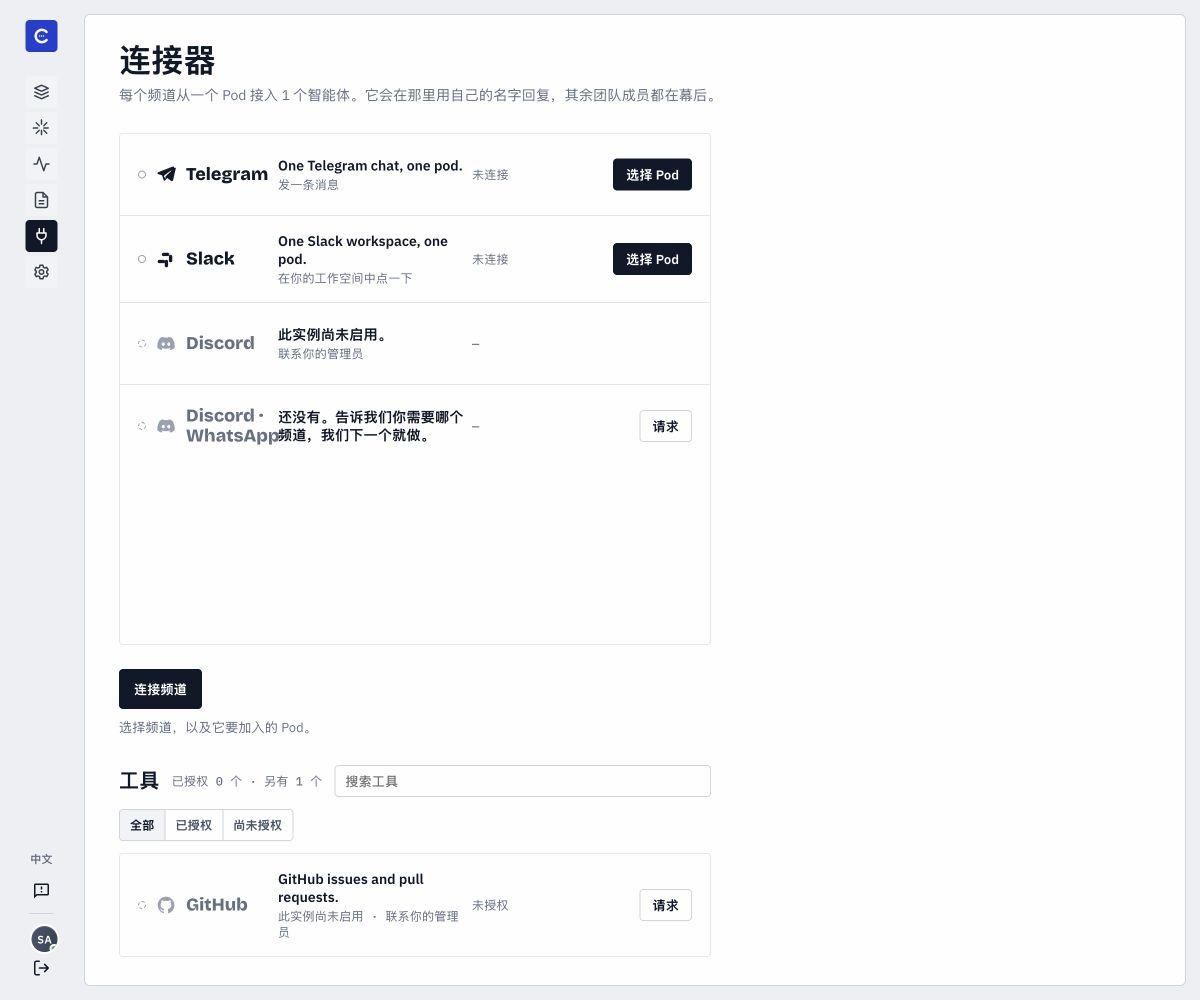
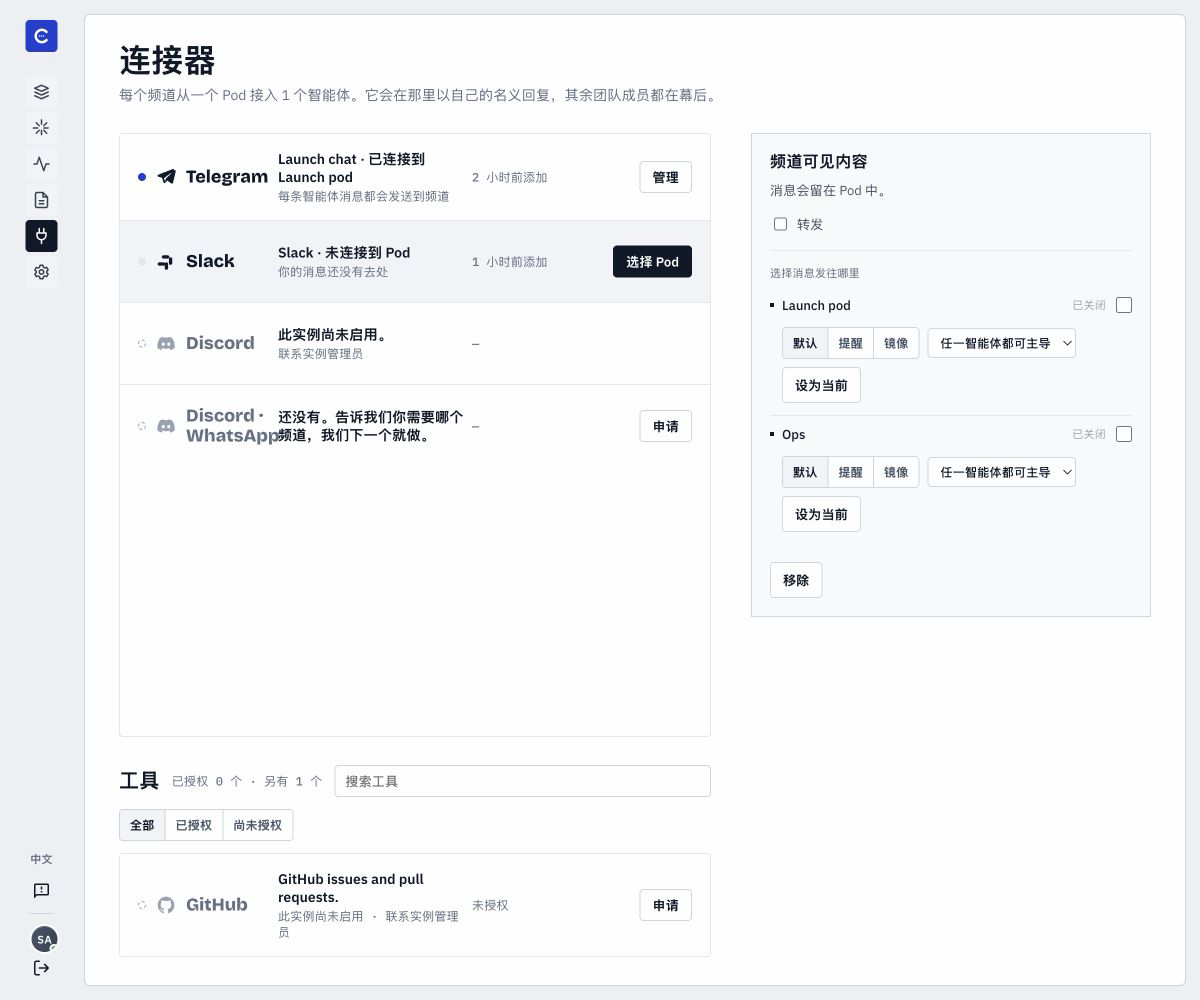
feat(i18n): complete zh-CN connector chrome localization

diff --git a/frontend/src/v2/components/V2ConnectorsPage.tsx b/frontend/src/v2/components/V2ConnectorsPage.tsx
@@ -7,6 +7,7 @@
 import React, { useCallback, useEffect, useRef, useState } from 'react';
 import { useNavigate } from 'react-router-dom';
 import { useTranslation } from 'react-i18next';
+import type { TFunction } from 'i18next';
 import { useV2Api } from '../hooks/useV2Api';
 import { V2Pod, V2PodMember } from '../hooks/useV2Pods';
 import { PlatformGlyph } from '../icons/platforms';
@@ -178,6 +179,19 @@ const relativeTime = (date?: string): string => {
   return `${Math.floor(hours / 24)}d ago`;
 };
 
+const localizeRelativeTime = (date: string | undefined, t: TFunction): string => {
+  const raw = relativeTime(date);
+  if (raw === 'just now') return t('connectors.time.justNow', { defaultValue: 'just now' });
+  const match = raw.match(/^(\d+)([mhd]) ago$/);
+  if (!match) return raw;
+  const [, countText, unit] = match;
+  const key = unit === 'm' ? 'minutesAgo' : unit === 'h' ? 'hoursAgo' : 'daysAgo';
+  return t(`connectors.time.${key}`, {
+    count: Number(countText),
+    defaultValue: `${countText}${unit} ago`,
+  });
+};
+
 const claimIsStale = (installation: CatalogInstallation): boolean => {
   const claimedAt = installation.claimedAt ? new Date(installation.claimedAt).getTime() : NaN;
   if (!Number.isFinite(claimedAt)) return true;
@@ -308,15 +322,15 @@ const V2ConnectorsPage: React.FC = () => {
 
   const podNameById = (podId: string | null | undefined, fallback?: Connector | null): string => {
     const pod = podList.find((candidate) => String(candidate._id) === String(podId || ''));
-    if (pod) return pod.name || 'Untitled pod';
+    if (pod) return pod.name || t('connectors.untitledPod', { defaultValue: 'Untitled pod' });
     if (fallback && typeof fallback.podId === 'object' && fallback.podId?.name) return fallback.podId.name;
-    return 'Untitled pod';
+    return t('connectors.untitledPod', { defaultValue: 'Untitled pod' });
   };
 
   const boundPodName = (boundPodId: string | undefined): string => {
     const existing = connectors.find((connector) => connectorPodId(connector) === String(boundPodId));
     const boundPod = podList.find((pod) => String(pod._id) === String(boundPodId));
-    return existing ? podNameById(connectorPodId(existing), existing) : (boundPod?.name || 'another pod');
+    return existing ? podNameById(connectorPodId(existing), existing) : (boundPod?.name || t('connectors.anotherPod', { defaultValue: 'another pod' }));
   };
 
   const installInProgressMessage = (boundPodId?: string): string => (
@@ -563,7 +577,10 @@ const V2ConnectorsPage: React.FC = () => {
   };
 
   const rowFor = (connector: Connector): ConnectorRow => {
-    const started = `started ${relativeTime(connector.createdAt)}`;
+    const started = t('connectors.startedWhen', {
+      defaultValue: 'started {{rel}}',
+      rel: localizeRelativeTime(connector.createdAt, t),
+    });
     const isTelegram = connector.type === 'telegram';
     const isSlack = connector.type === 'slack';
     const title = connector.config?.chatTitle || TYPE_LABELS[connector.type] || connector.type;
@@ -576,7 +593,10 @@ const V2ConnectorsPage: React.FC = () => {
         dot: 'empty',
         line: t('connectors.errorLine', { defaultValue: 'The connection dropped.' }),
         pulse: false,
-        when: `since ${relativeTime(connector.updatedAt || connector.createdAt)}`,
+        when: t('connectors.sinceWhen', {
+          defaultValue: 'since {{rel}}',
+          rel: localizeRelativeTime(connector.updatedAt || connector.createdAt, t),
+        }),
       };
     }
 
@@ -592,7 +612,10 @@ const V2ConnectorsPage: React.FC = () => {
           dot: 'idle',
           line: t('connectors.notLinkedLine', { defaultValue: '{{title}} · not linked to a pod', title }),
           pulse: false,
-          when: `added ${relativeTime(connector.createdAt)}`,
+          when: t('connectors.addedWhen', {
+            defaultValue: 'added {{rel}}',
+            rel: localizeRelativeTime(connector.createdAt, t),
+          }),
         };
       }
       const relay = Boolean(connector.config?.liveRelay);
@@ -607,10 +630,17 @@ const V2ConnectorsPage: React.FC = () => {
             : t('connectors.rowAttention', { defaultValue: 'attention · escalations reach the channel' }))
           : t('connectors.rowRelayOff', { defaultValue: 'relay off · messages stay in the pod' }),
         dot: relay ? 'live' : 'idle',
-        line: `${title} · linked to ${podNameById(activePodId, connector)}`,
+        line: t('connectors.linkedLine', {
+          defaultValue: '{{title}} · linked to {{pod}}',
+          title,
+          pod: podNameById(activePodId, connector),
+        }),
         pulse: relay && Boolean(recent),
         secondary: true,
-        when: `added ${relativeTime(connector.createdAt)}`,
+        when: t('connectors.addedWhen', {
+          defaultValue: 'added {{rel}}',
+          rel: localizeRelativeTime(connector.createdAt, t),
+        }),
       };
     }
 
@@ -644,8 +674,8 @@ const V2ConnectorsPage: React.FC = () => {
     }
 
     if (isSlack && connector.config?.pendingBind) {
-      const workspace = connector.config.pendingBind.teamName || 'This Slack workspace';
-      const user = connector.config.pendingBind.slackUserName ? `@${connector.config.pendingBind.slackUserName}` : 'your Slack user';
+      const workspace = connector.config.pendingBind.teamName || t('connectors.thisSlackWorkspace', { defaultValue: 'This Slack workspace' });
+      const user = connector.config.pendingBind.slackUserName ? `@${connector.config.pendingBind.slackUserName}` : t('connectors.yourSlackUser', { defaultValue: 'your Slack user' });
       return {
         action: 'confirm',
         actionLabel: t('connectors.slackConfirm', { defaultValue: 'Confirm' }),
@@ -653,7 +683,10 @@ const V2ConnectorsPage: React.FC = () => {
         dot: 'pending',
         line: t('connectors.slackConfirmRow', { defaultValue: '{{workspace}} says {{user}} connected — is that you?', workspace, user }),
         pulse: true,
-        when: `Slack answered ${relativeTime(connector.updatedAt || connector.createdAt)}`,
+        when: t('connectors.slackAnsweredWhen', {
+          defaultValue: 'Slack answered {{rel}}',
+          rel: localizeRelativeTime(connector.updatedAt || connector.createdAt, t),
+        }),
       };
     }
 
@@ -673,7 +706,10 @@ const V2ConnectorsPage: React.FC = () => {
       action: null,
       detail: t('connectors.pending', { defaultValue: 'Waiting for the channel' }),
       dot: 'empty',
-      line: `${TYPE_LABELS[connector.type] || connector.type} is waiting to connect.`,
+      line: t('connectors.waitingToConnect', {
+        defaultValue: '{{label}} is waiting to connect.',
+        label: TYPE_LABELS[connector.type] || connector.type,
+      }),
       pulse: false,
       when: started,
     };
@@ -712,8 +748,14 @@ const V2ConnectorsPage: React.FC = () => {
         when: t('connectors.notConnected', { defaultValue: 'not connected' }),
       };
     }
-    const since = `since ${relativeTime(installation.updatedAt)}`;
-    const started = `started ${relativeTime(installation.claimedAt || installation.updatedAt)}`;
+    const since = t('connectors.sinceWhen', {
+      defaultValue: 'since {{rel}}',
+      rel: localizeRelativeTime(installation.updatedAt, t),
+    });
+    const started = t('connectors.startedWhen', {
+      defaultValue: 'started {{rel}}',
+      rel: localizeRelativeTime(installation.claimedAt || installation.updatedAt, t),
+    });
     const stale = claimIsStale(installation);
     if (installation.status === 'installing' || installation.status === 'activating') {
       return stale
@@ -777,7 +819,10 @@ const V2ConnectorsPage: React.FC = () => {
         dot: 'empty',
         line: `${t('connectors.pausedLine', { defaultValue: 'Paused by an administrator.' })}${reason}`,
         pulse: false,
-        when: `paused ${relativeTime(pause?.at || installation.updatedAt)}`,
+        when: t('connectors.pausedWhen', {
+          defaultValue: 'paused {{rel}}',
+          rel: localizeRelativeTime(pause?.at || installation.updatedAt, t),
+        }),
       };
     }
     if (installation.status === 'stale') {
@@ -964,7 +1009,10 @@ const V2ConnectorsPage: React.FC = () => {
                   {active && <span className="v2-connector-gate__tag">{t('connectors.activeTag', { defaultValue: 'active' })}</span>}
                 </button>
                 <span className={`v2-connector-gate__since${enabled ? '' : ' v2-connector-gate__since--off'}`}>
-                  {enabled ? `since ${relativeTime(gate?.since)}` : t('connectors.gateOff', { defaultValue: 'off' })}
+                  {enabled ? t('connectors.sinceWhen', {
+                    defaultValue: 'since {{rel}}',
+                    rel: localizeRelativeTime(gate?.since, t),
+                  }) : t('connectors.gateOff', { defaultValue: 'off' })}
                 </span>
                 <input
                   type="checkbox"
@@ -1145,8 +1193,8 @@ const V2ConnectorsPage: React.FC = () => {
               <>
                 <p>{t('connectors.slackConfirmHint', {
                   defaultValue: '{{workspace}} wants to connect as {{user}}.',
-                  workspace: pendingBind.teamName || 'This Slack workspace',
-                  user: pendingBind.slackUserName ? `@${pendingBind.slackUserName}` : 'your Slack user',
+                  workspace: pendingBind.teamName || t('connectors.thisSlackWorkspace', { defaultValue: 'This Slack workspace' }),
+                  user: pendingBind.slackUserName ? `@${pendingBind.slackUserName}` : t('connectors.yourSlackUser', { defaultValue: 'your Slack user' }),
                 })}</p>
                 <div className="v2-connector-aside__actions">
                   <button type="button" className="v2-connector-aside__primary" disabled={busy} onClick={() => { void resolveSlackBind(connector, 'confirm'); }}>

diff --git a/frontend/src/v2/components/V2ConnectorTools.tsx b/frontend/src/v2/components/V2ConnectorTools.tsx
@@ -12,6 +12,7 @@
 
 import React, { useCallback, useEffect, useMemo, useState } from 'react';
 import { useTranslation } from 'react-i18next';
+import type { TFunction } from 'i18next';
 import { useV2Api } from '../hooks/useV2Api';
 import { useAuth } from '../../context/AuthContext';
 import { V2Pod } from '../hooks/useV2Pods';
@@ -115,6 +116,30 @@ export const relativeTime = (date?: string | null): string => {
   if (hours < 24) return `${hours}h ${suffix}`;
   const days = Math.round(hours / 24);
   return `${days}d ${suffix}`;
+};
+
+const localizeRelativeTime = (date: string | null | undefined, t: TFunction): string => {
+  const raw = relativeTime(date);
+  if (raw === '—') return raw;
+  if (raw === 'just now') return t('tools.time.justNow', { defaultValue: 'just now' });
+  if (raw === 'in a moment') return t('tools.time.inAMoment', { defaultValue: 'in a moment' });
+  const match = raw.match(/^(\d+)([mhd]) (ago|from now)$/);
+  if (!match) return raw;
+  const [, countText, unit, direction] = match;
+  const unitName = unit === 'm' ? 'minutes' : unit === 'h' ? 'hours' : 'days';
+  const key = `${unitName}${direction === 'ago' ? 'Ago' : 'FromNow'}`;
+  return t(`tools.time.${key}`, {
+    count: Number(countText),
+    defaultValue: `${countText}${unit} ${direction}`,
+  });
+};
+
+const localizeWindow = (windowMs: number, t: TFunction): string => {
+  const minutes = Math.max(1, Math.round(windowMs / 60_000));
+  if (minutes < 60) return t('tools.time.minutesDuration', { count: minutes, defaultValue: `${minutes}m` });
+  const hours = Math.round(minutes / 60);
+  if (hours < 24) return t('tools.time.hoursDuration', { count: hours, defaultValue: `${hours}h` });
+  return t('tools.time.daysDuration', { count: Math.round(hours / 24), defaultValue: `${Math.round(hours / 24)}d` });
 };
 
 const isExpired = (grant: ToolGrant, now = Date.now()): boolean => new Date(grant.expiresAt).getTime() <= now;
@@ -423,14 +448,14 @@ const V2ConnectorTools: React.FC<Props> = ({ pods }) => {
     const isSelected = selectedId === grant.grantId;
     const entry = entryFor(grant);
     const label = toolLabel(grant);
-    const when = t('tools.grantedWhen', { defaultValue: 'granted {{rel}}', rel: relativeTime(grant.createdAt) });
+    const when = t('tools.grantedWhen', { defaultValue: 'granted {{rel}}', rel: localizeRelativeTime(grant.createdAt, t) });
     const revokedBy = grant.revokedBy ? memberName(grant.revokedBy) : null;
     const line2 = dead
       ? (grant.revokedAt
         ? (revokedBy
-          ? t('tools.revokedByLine', { defaultValue: 'revoked by {{member}} {{rel}}', member: revokedBy, rel: relativeTime(grant.revokedAt) })
-          : t('tools.revokedLine', { defaultValue: 'revoked {{rel}}', rel: relativeTime(grant.revokedAt) }))
-        : t('tools.expiredLine', { defaultValue: 'expired {{rel}}', rel: relativeTime(grant.expiresAt) }))
+          ? t('tools.revokedByLine', { defaultValue: 'revoked by {{member}} {{rel}}', member: revokedBy, rel: localizeRelativeTime(grant.revokedAt, t) })
+          : t('tools.revokedLine', { defaultValue: 'revoked {{rel}}', rel: localizeRelativeTime(grant.revokedAt, t) }))
+        : t('tools.expiredLine', { defaultValue: 'expired {{rel}}', rel: localizeRelativeTime(grant.expiresAt, t) }))
       : `${audienceLabels(grant)} ${t('tools.mayUse', { defaultValue: 'may use it' })} · ${asksFirst(grant)}`;
     return (
       <article key={grant.grantId} className={`v2-connector-row${isSelected ? ' v2-connector-row--selected' : ''}${dead ? ' v2-connector-row--dead' : ''}`}>
@@ -661,16 +686,16 @@ const V2ConnectorTools: React.FC<Props> = ({ pods }) => {
           <h2>{toolLabel(grant)} · {grant.target.kind === 'pod' ? podName(grant.target.id) : seatLabel(podId, grant.target.id)}</h2>
           <p>
             {granter
-              ? t('tools.grantedByOn', { defaultValue: 'Granted by {{member}} {{rel}}.', member: granter, rel: relativeTime(grant.createdAt) })
-              : t('tools.grantedOn', { defaultValue: 'Granted {{rel}}.', rel: relativeTime(grant.createdAt) })}
+              ? t('tools.grantedByOn', { defaultValue: 'Granted by {{member}} {{rel}}.', member: granter, rel: localizeRelativeTime(grant.createdAt, t) })
+              : t('tools.grantedOn', { defaultValue: 'Granted {{rel}}.', rel: localizeRelativeTime(grant.createdAt, t) })}
             {' '}
             {grant.revokedAt
               ? (revokedBy
-                ? t('tools.endedRevokedBy', { defaultValue: 'Revoked by {{member}} {{rel}}.', member: revokedBy, rel: relativeTime(grant.revokedAt) })
-                : t('tools.endedRevoked', { defaultValue: 'Revoked {{rel}}.', rel: relativeTime(grant.revokedAt) }))
+                ? t('tools.endedRevokedBy', { defaultValue: 'Revoked by {{member}} {{rel}}.', member: revokedBy, rel: localizeRelativeTime(grant.revokedAt, t) })
+                : t('tools.endedRevoked', { defaultValue: 'Revoked {{rel}}.', rel: localizeRelativeTime(grant.revokedAt, t) }))
               : (isExpired(grant)
-                ? t('tools.endedExpired', { defaultValue: 'Expired {{rel}}.', rel: relativeTime(grant.expiresAt) })
-                : t('tools.endsRel', { defaultValue: 'Ends {{rel}}.', rel: relativeTime(grant.expiresAt) }))}
+                ? t('tools.endedExpired', { defaultValue: 'Expired {{rel}}.', rel: localizeRelativeTime(grant.expiresAt, t) })
+                : t('tools.endsRel', { defaultValue: 'Ends {{rel}}.', rel: localizeRelativeTime(grant.expiresAt, t) }))}
           </p>
           <dl className="v2-tools__facts">
             <dt>{t('tools.agentsAllowed', { defaultValue: 'agents allowed' })}</dt>
@@ -683,7 +708,7 @@ const V2ConnectorTools: React.FC<Props> = ({ pods }) => {
               <>
                 <dt>{t('tools.budget', { defaultValue: 'budget' })}</dt>
                 <dd>{grant.budget.windowMs
-                  ? t('tools.budgetWindow', { defaultValue: '{{calls}} calls per {{window}}', calls: grant.budget.calls, window: relativeTime(new Date(Date.now() - grant.budget.windowMs).toISOString()).replace(' ago', '') })
+                  ? t('tools.budgetWindow', { defaultValue: '{{calls}} calls per {{window}}', calls: grant.budget.calls, window: localizeWindow(grant.budget.windowMs, t) })
                   : t('tools.budgetTotal', { defaultValue: '{{calls}} calls', calls: grant.budget.calls })}</dd>
               </>
             )}
@@ -733,7 +758,7 @@ const V2ConnectorTools: React.FC<Props> = ({ pods }) => {
               {trail.calls.map((line) => (
                 <li key={line.callId} className="v2-tools__trail-line">
                   <span><span className="v2-tools__outcome" title={outcomeLabel(line.outcome)} aria-hidden="true"><OutcomeGlyph outcome={line.outcome} /></span>{seatLabel(podId, line.agentUserId)} · {line.tool} · {outcomeLabel(line.outcome)}</span>
-                  <span className="v2-tools__trail-when">{relativeTime(line.at)}</span>
+                  <span className="v2-tools__trail-when">{localizeRelativeTime(line.at, t)}</span>
                 </li>
               ))}
             </ol>

diff --git a/frontend/src/v2/__tests__/v2-i18n-invariants.test.ts b/frontend/src/v2/__tests__/v2-i18n-invariants.test.ts
@@ -27,4 +27,20 @@ describe('Connectors and Tools locale coverage', () => {
       expect(lookup(zhCN, key)).toEqual(expect.any(String));
     }
   });
+
+  test('rendered time and fallback copy does not bypass translation keys', () => {
+    const rawEnglishTemplates = [
+      /`started \$\{/,
+      /`since \$\{/,
+      /`added \$\{/,
+      /`paused \$\{/,
+      /`Slack answered \$\{/,
+      /`\$\{title\} · linked to/,
+      /\|\| 'Untitled pod'/,
+      /\|\| 'another pod'/,
+      /\|\| 'This Slack workspace'/,
+      /\? `@\$\{[^}]+\}` : 'your Slack user'/,
+    ];
+    for (const pattern of rawEnglishTemplates) expect(source).not.toMatch(pattern);
+  });
 });
